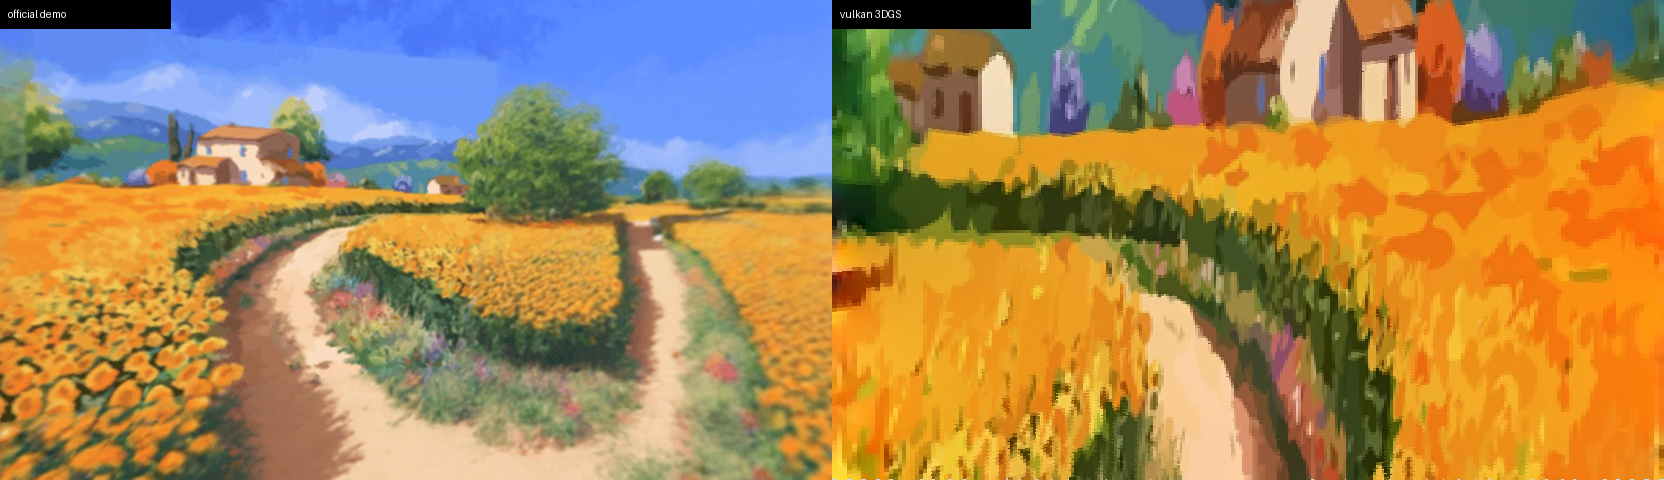
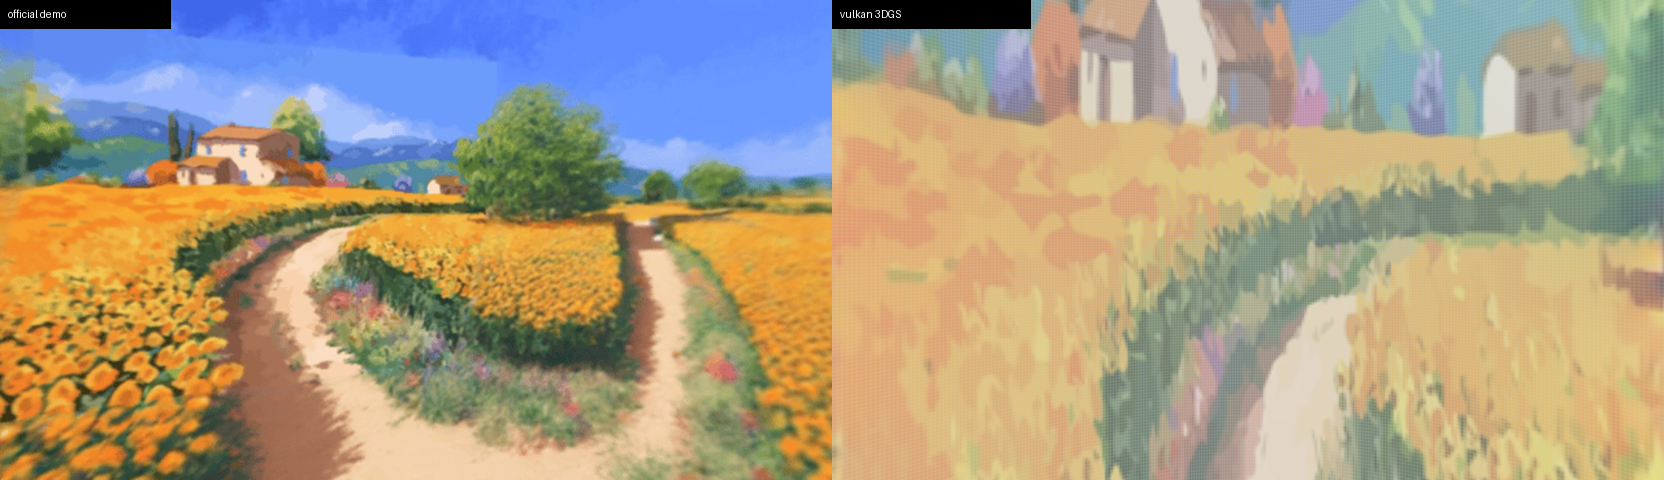
WorldGen: perspective covariance 3DGS renderer and official comparison

diff --git a/worldgen/worldgen/render_splat_perspective.py b/worldgen/worldgen/render_splat_perspective.py
@@ -1,0 +1,144 @@
+"""Perspective 3DGS renderer with covariance projection (numba)."""
+
+import argparse
+from pathlib import Path
+
+import numpy as np
+from numba import njit
+from PIL import Image
+
+SH_C0 = 0.28209479177387814
+
+
+def load_ply(path: Path):
+    b = path.read_bytes()
+    hs = b.index(b"end_header\n") + 11
+    head = b[:hs].decode()
+    n = int([l for l in head.splitlines() if l.startswith("element vertex")][0].split()[2])
+    return np.frombuffer(b[hs:hs + n * 17 * 4], dtype="<f4").reshape(n, 17)
+
+
+@njit
+def render_persp(xc, yc, zc, scales, quats, colors, opacity, W, H, fx, fy, cyaw, syaw, max_radius):
+    img = np.zeros((H, W, 3), np.float32)
+    trans = np.zeros((H, W), np.float32)
+    n = xc.shape[0]
+    for i in range(n):
+        z = zc[i]
+        if z < 0.05:
+            continue
+        w, qx, qy, qz = quats[i, 0], quats[i, 1], quats[i, 2], quats[i, 3]
+        qn = np.sqrt(w * w + qx * qx + qy * qy + qz * qz)
+        if qn < 1e-8:
+            w, qx, qy, qz = 1.0, 0.0, 0.0, 0.0
+        else:
+            w, qx, qy, qz = w / qn, qx / qn, qy / qn, qz / qn
+        R = np.empty((3, 3), np.float32)
+        R[0, 0] = 1 - 2 * (qy * qy + qz * qz)
+        R[0, 1] = 2 * (qx * qy - w * qz)
+        R[0, 2] = 2 * (qx * qz + w * qy)
+        R[1, 0] = 2 * (qx * qy + w * qz)
+        R[1, 1] = 1 - 2 * (qx * qx + qz * qz)
+        R[1, 2] = 2 * (qy * qz - w * qx)
+        R[2, 0] = 2 * (qx * qz - w * qy)
+        R[2, 1] = 2 * (qy * qz + w * qx)
+        R[2, 2] = 1 - 2 * (qx * qx + qy * qy)
+        s = np.exp(scales[i])
+        C = np.empty((3, 3), np.float32)
+        for a in range(3):
+            for b in range(3):
+                t = 0.0
+                for k in range(3):
+                    t += R[a, k] * s[k] * s[k] * R[b, k]
+                C[a, b] = t
+        # camera-space covariance (yaw about Y)
+        cxx = C[0, 0]; cxz = C[0, 2]; czz = C[2, 2]
+        cc = np.empty((3, 3), np.float32)
+        cc[0, 0] = cyaw * cyaw * cxx - 2 * cyaw * syaw * cxz + syaw * syaw * czz
+        cc[0, 2] = cyaw * syaw * (cxx - czz) + (cyaw * cyaw - syaw * syaw) * cxz
+        cc[2, 0] = cc[0, 2]
+        cc[2, 2] = syaw * syaw * cxx + 2 * syaw * cyaw * cxz + cyaw * cyaw * czz
+        cc[1, 1] = C[1, 1]
+        cc[0, 1] = cyaw * C[0, 1] - syaw * C[2, 1]
+        cc[1, 0] = cc[0, 1]
+        cc[1, 2] = syaw * C[0, 1] + cyaw * C[2, 1]
+        cc[2, 1] = cc[1, 2]
+        # perspective Jacobian
+        iz = 1.0 / z
+        j00 = fx * iz
+        j02 = -fx * xc[i] * iz * iz
+        j11 = fy * iz
+        j12 = -fy * yc[i] * iz * iz
+        a11 = j00 * j00 * cc[0, 0] + 2 * j00 * j02 * cc[0, 2] + j02 * j02 * cc[2, 2]
+        a22 = j11 * j11 * cc[1, 1] + 2 * j11 * j12 * cc[1, 2] + j12 * j12 * cc[2, 2]
+        a12 = j00 * j11 * cc[0, 1] + j00 * j12 * cc[0, 2] + j02 * j11 * cc[2, 1] + j02 * j12 * cc[2, 2]
+        tr = a11 + a22
+        det = a11 * a22 - a12 * a12
+        if det <= 1e-12:
+            continue
+        l1 = 0.5 * tr + np.sqrt(max(0.25 * tr * tr - det, 0.0))
+        rad = int(min(max_radius, max(1.0, 3.0 * np.sqrt(l1))))
+        u = fx * xc[i] * iz + W / 2
+        v = fy * yc[i] * iz + H / 2
+        u0 = int(np.floor(u))
+        v0 = int(np.floor(v))
+        inv_det = 1.0 / det
+        op = opacity[i]
+        for yy in range(v0 - rad, v0 + rad + 1):
+            if yy < 0 or yy >= H:
+                continue
+            dy = yy + 0.5 - v
+            for xx in range(u0 - rad, u0 + rad + 1):
+                if xx < 0 or xx >= W:
+                    continue
+                dx = xx + 0.5 - u
+                q = a22 * dx * dx - 2 * a12 * dx * dy + a11 * dy * dy
+                a = op * np.exp(-0.5 * q * inv_det)
+                if a < 0.003:
+                    continue
+                img[yy, xx, 0] = img[yy, xx, 0] * (1 - a) + colors[i, 0] * a
+                img[yy, xx, 1] = img[yy, xx, 1] * (1 - a) + colors[i, 1] * a
+                img[yy, xx, 2] = img[yy, xx, 2] * (1 - a) + colors[i, 2] * a
+                trans[yy, xx] = trans[yy, xx] * (1 - a) + a
+    for yy in range(H):
+        for xx in range(W):
+            t = trans[yy, xx]
+            img[yy, xx] = img[yy, xx] + (1 - t) * np.array([0.78, 0.87, 0.93])
+    return img
+
+
+def main():
+    ap = argparse.ArgumentParser()
+    ap.add_argument("--ply", required=True)
+    ap.add_argument("--out", required=True)
+    ap.add_argument("--width", type=int, default=832)
+    ap.add_argument("--height", type=int, default=480)
+    ap.add_argument("--fov", type=float, default=90.0)
+    ap.add_argument("--yaw", type=float, default=0.0)
+    ap.add_argument("--scale-factor", type=float, default=1.0)
+    ap.add_argument("--max-radius", type=int, default=8)
+    args = ap.parse_args()
+
+    v = load_ply(Path(args.ply))
+    yaw = np.radians(args.yaw)
+    cy, sy = np.cos(yaw), np.sin(yaw)
+    c = v[:, :3].astype(np.float32)
+    xc = cy * c[:, 0] - sy * c[:, 2]
+    zc = sy * c[:, 0] + cy * c[:, 2]
+    yc = c[:, 1].copy()
+    order = np.argsort(-zc)
+    v = v[order]
+    xc, yc, zc = xc[order], yc[order], zc[order]
+    colors = np.clip(0.5 + SH_C0 * v[:, 6:9], 0, 1).astype(np.float32)
+    opacity = (1.0 / (1.0 + np.exp(-v[:, 16]))).astype(np.float32)
+    fx = (args.width / 2) / np.tan(np.radians(args.fov) / 2)
+    fy = fx
+    img = render_persp(xc, yc, zc, (v[:, 10:13] + np.log(args.scale_factor)).astype(np.float32),
+                       v[:, 13:17].astype(np.float32), colors, opacity,
+                       args.width, args.height, fx, fy, cy, sy, args.max_radius)
+    Image.fromarray((np.clip(img, 0, 1) * 255).astype(np.uint8)).save(args.out)
+    print("perspective", len(v), "->", args.out)
+
+
+if __name__ == "__main__":
+    main()

diff --git a/worldgen/README.md b/worldgen/README.md
@@ -144,20 +144,20 @@ out/
 
 ## 3DGS 预览 / 官方对比
 
+带 covariance 的透视 3DGS 合成（90° FOV，与官方 demo 视角接近）：
+
 ```powershell
-py -3 worldgen\render_splat_points.py `
+py -3 worldgen\render_splat_perspective.py `
   --ply output\rainforest\scene\gaussians.ply `
-  --out output\rainforest\splat_inside.png `
-  --inside --yaw 0 --fov 90 --radius 2
+  --out output\rainforest\gauss_persp.png `
+  --width 832 --height 480 --fov 90 --yaw 0 --scale-factor 0.7
 ```
 
-左：官方 demo 首帧；右：`worldgen-vulkan` 的 3DGS 在 90° 视角下的点渲染。
+左：官方 demo 首帧；右：`worldgen-vulkan` 的 3DGS 透视合成。
 
 ![3DGS comparison](docs/assets/splat_compare.png)
 
-这是点渲染预览，不是带 covariance 的最终 3DGS 合成；颜色/几何已可对照官方 demo。
-
-带 covariance 的 equirect 3DGS 合成：
+equirect 全景 3DGS：
 
 ```powershell
 py -3 worldgen\render_splat_gaussian.py `
@@ -167,6 +167,15 @@ py -3 worldgen\render_splat_gaussian.py `
 ```
 
 ![3DGS equirect](docs/assets/gauss_equirect.png)
+
+点渲染仅用于快速检查：
+
+```powershell
+py -3 worldgen\render_splat_points.py `
+  --ply output\rainforest\scene\gaussians.ply `
+  --out output\rainforest\splat_inside.png `
+  --inside --yaw 0 --fov 90 --radius 2
+```
 
 ## DA-2 转换
 

diff --git a/worldgen/docs/VALIDATION.md b/worldgen/docs/VALIDATION.md
@@ -117,14 +117,16 @@ inside 90 deg: 39,976 projected points
 
 ![3DGS comparison](assets/splat_compare.png)
 
+`render_splat_gaussian.py` adds 3D covariance + alpha compositing for an
+equirect image. `render_splat_perspective.py` projects the same covariance
+through a 90-degree pinhole camera; at 832x480 it produces a scene close to the
+official demo viewpoint. `--scale-factor 0.7` is the current best balance
+between blur (1.0) and holes (0.3).
+
 The existing `vulkan-splat` viewer still frames a full panorama badly (washed
 or tiny orbit view); this is a viewer camera issue, not a PLY/numeric issue.
 The 3DGS center/scale/quaternion formula is validated at ~1e-7 against the
 WorldGen Python reference.
-
-`render_splat_gaussian.py` adds the 3D covariance and alpha compositing for an
-equirect image. It reconstructs the official painting pano with correct
-colors/geometry; high-latitude sky splats still show a few large blue blobs.
 
 ### Fill foreground cleaning
 
